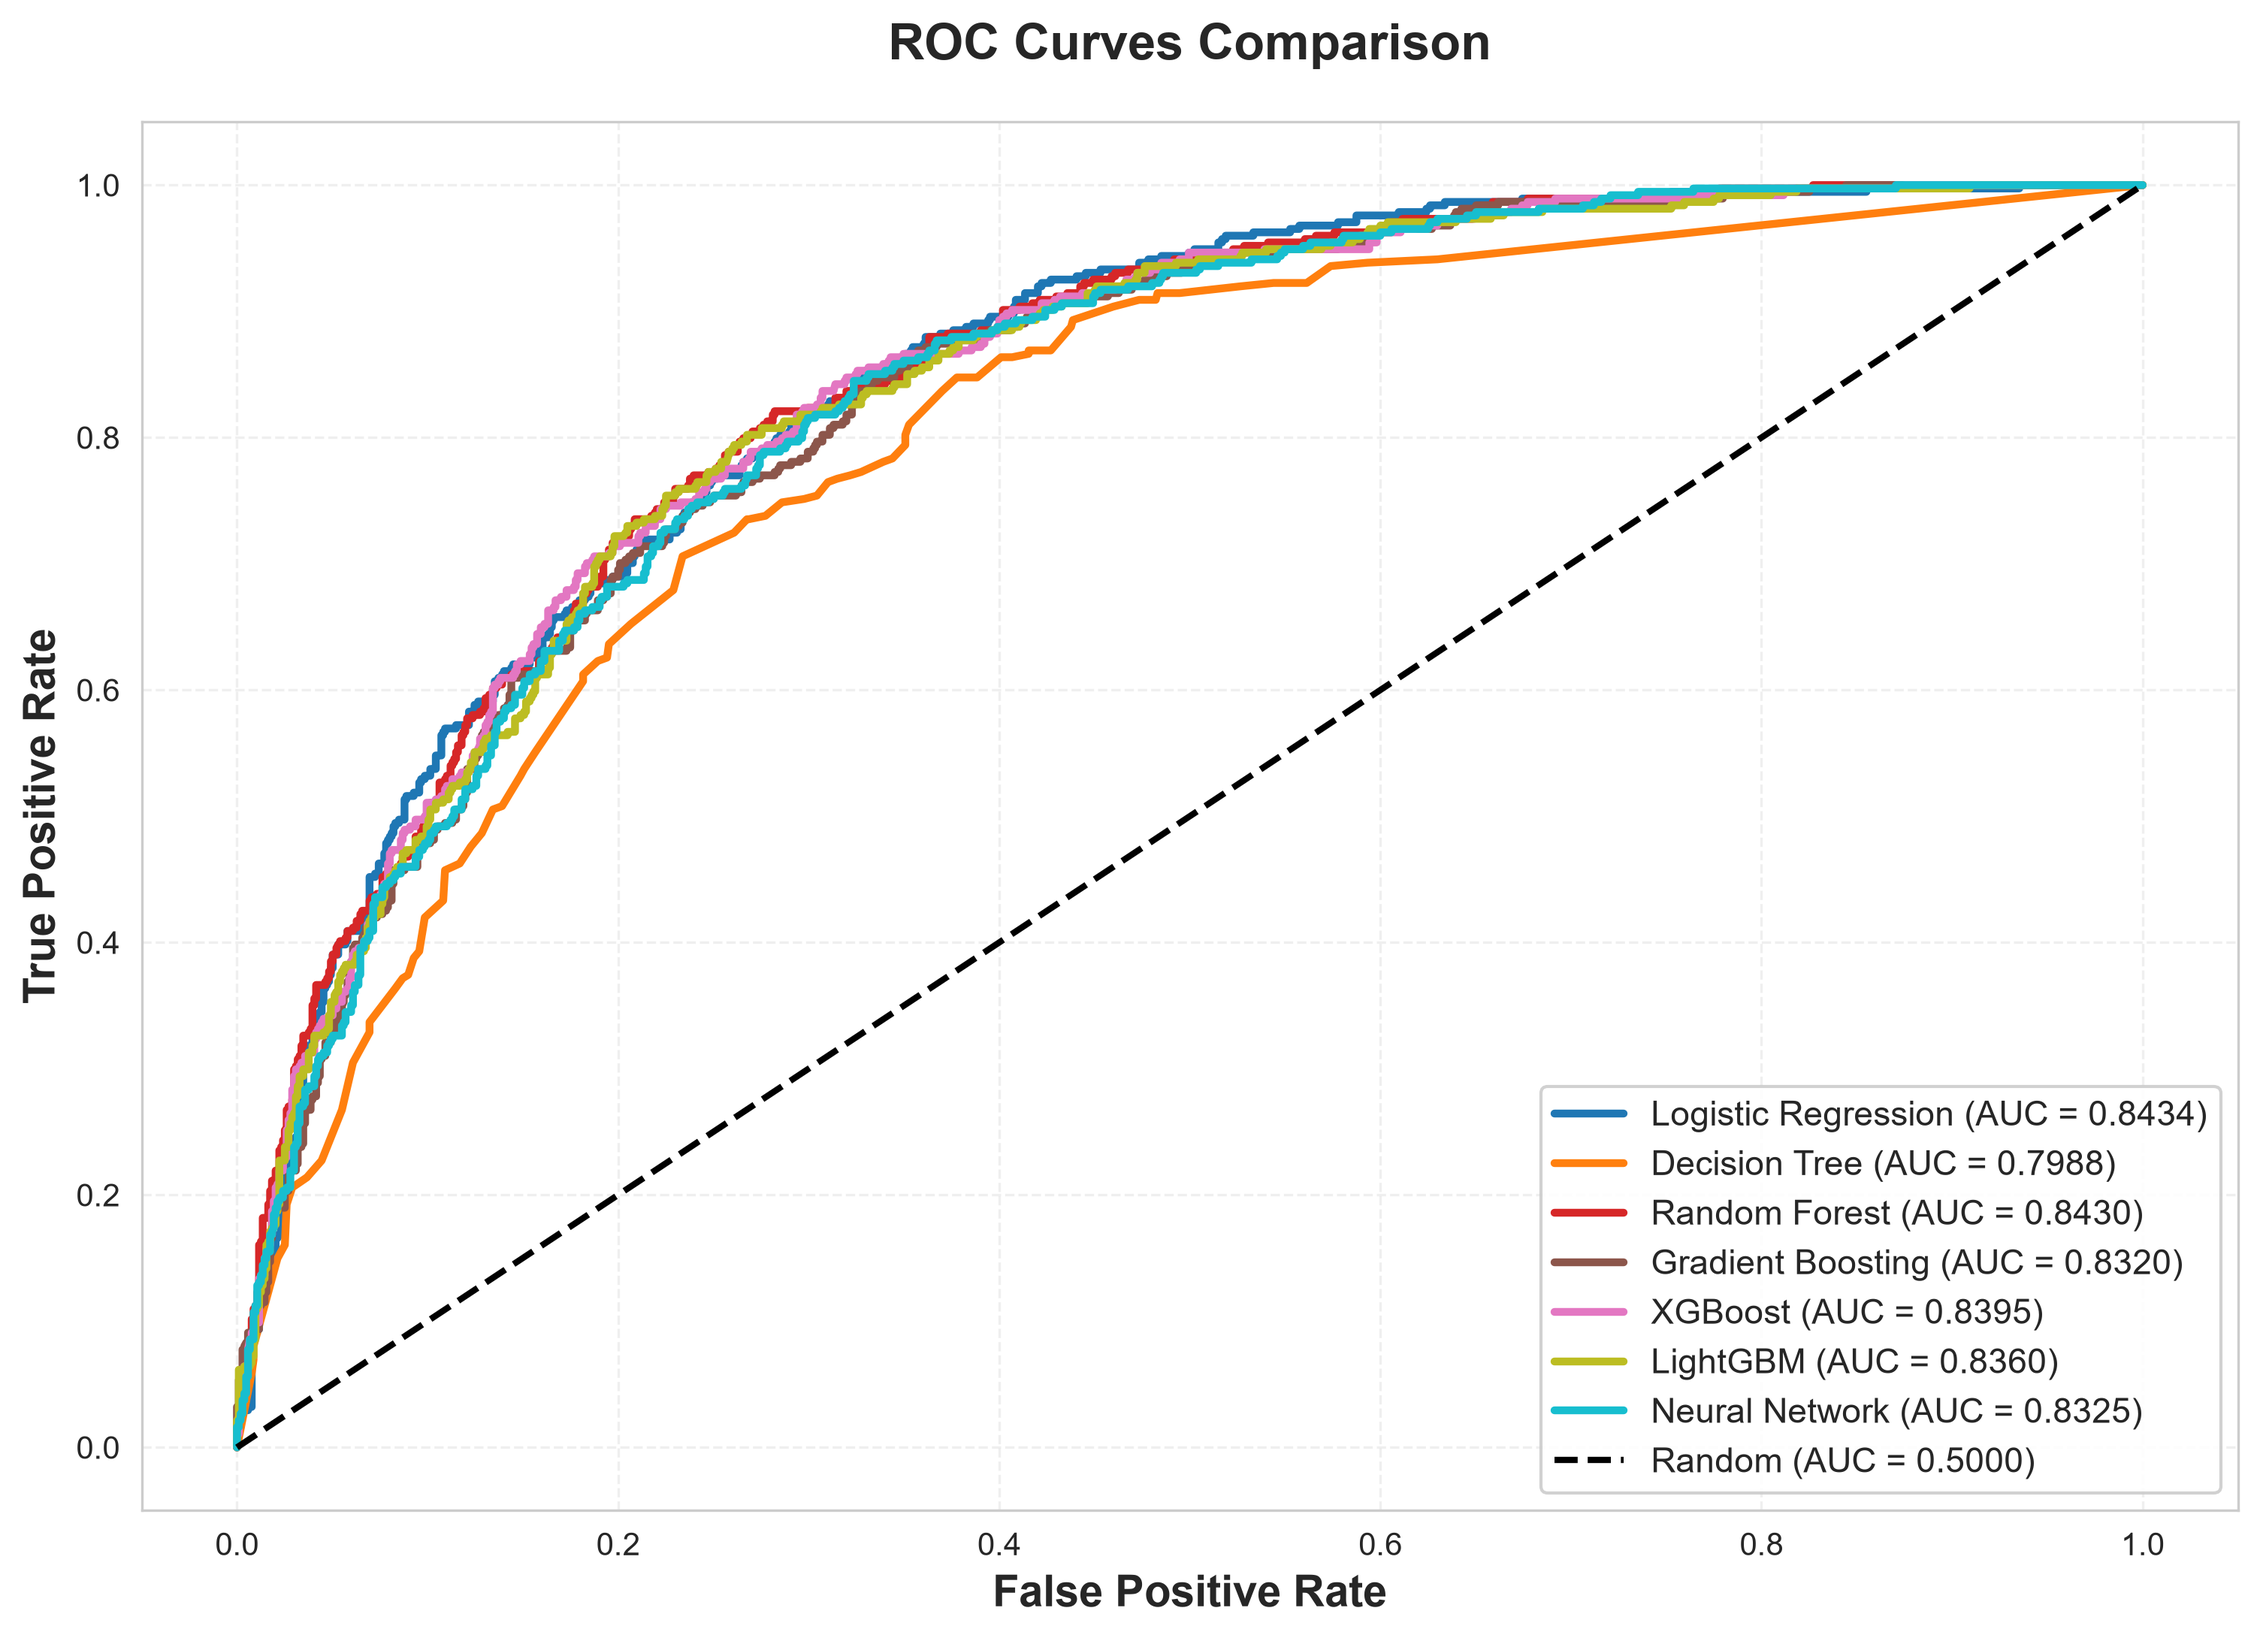
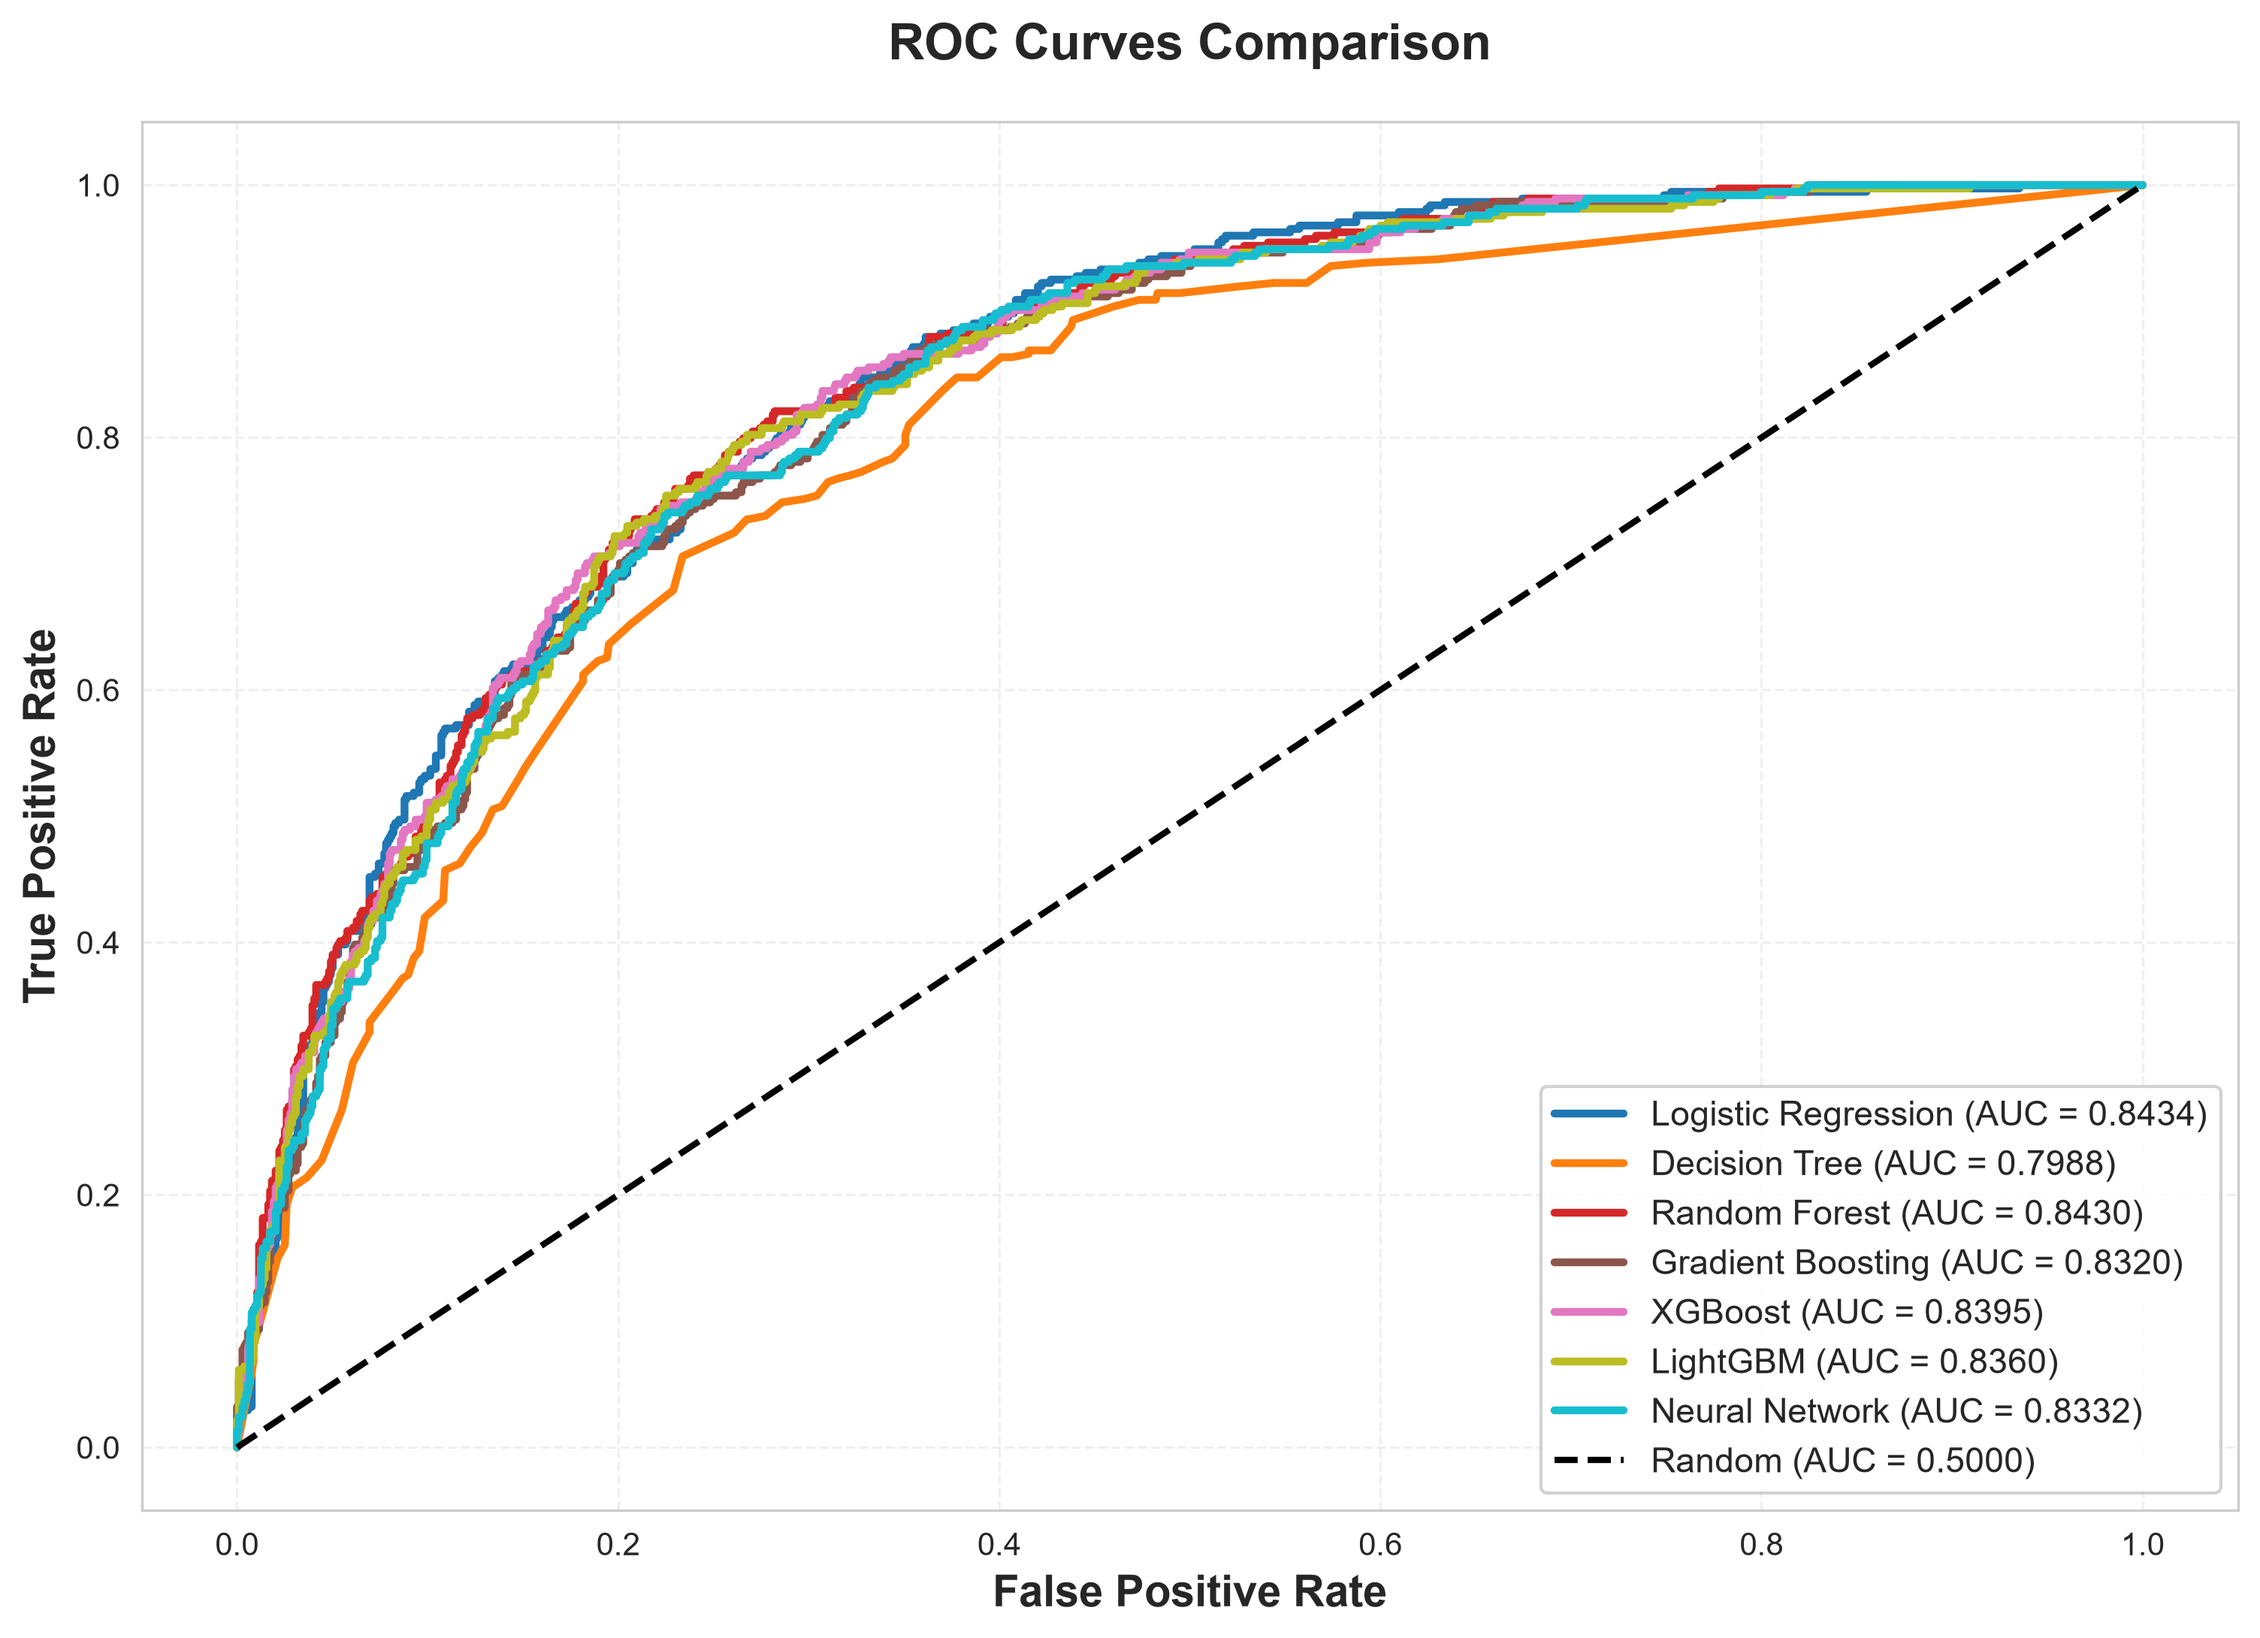
churn-prediction

diff --git a/optimize.py b/optimize.py
@@ -1,9 +1,3 @@
-#!/usr/bin/env python3
-"""
-Hyperparameter optimization script for all models.
-This script performs extensive hyperparameter tuning and saves the best configurations.
-"""
-
 import pandas as pd
 import numpy as np
 import pickle

diff --git a/train.py b/train.py
@@ -1,9 +1,3 @@
-#!/usr/bin/env python3
-"""
-Main training script for churn prediction models.
-This script trains all models with default parameters and evaluates them.
-"""
-
 import pandas as pd
 import numpy as np
 import pickle

diff --git a/evaluate.py b/evaluate.py
@@ -1,9 +1,3 @@
-#!/usr/bin/env python3
-"""
-Evaluation script for saved models.
-Load pre-trained models and evaluate them on new data or generate reports.
-"""
-
 import pandas as pd
 import numpy as np
 import pickle
